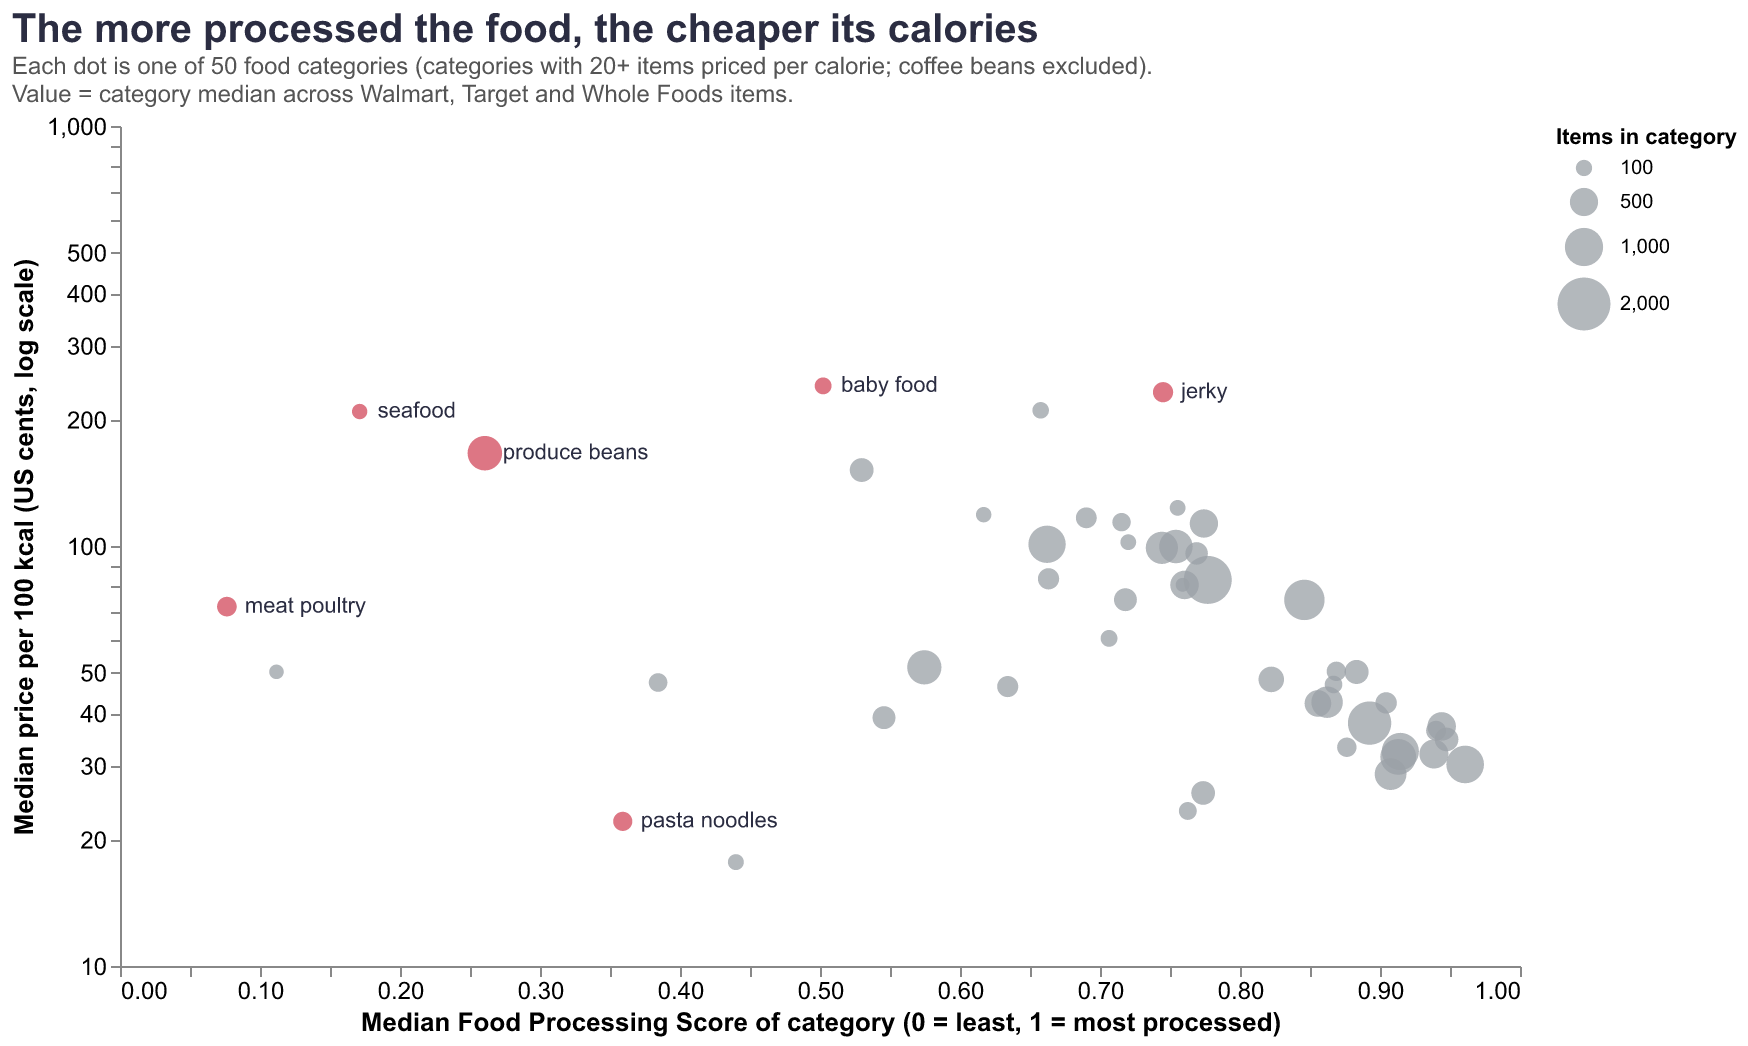
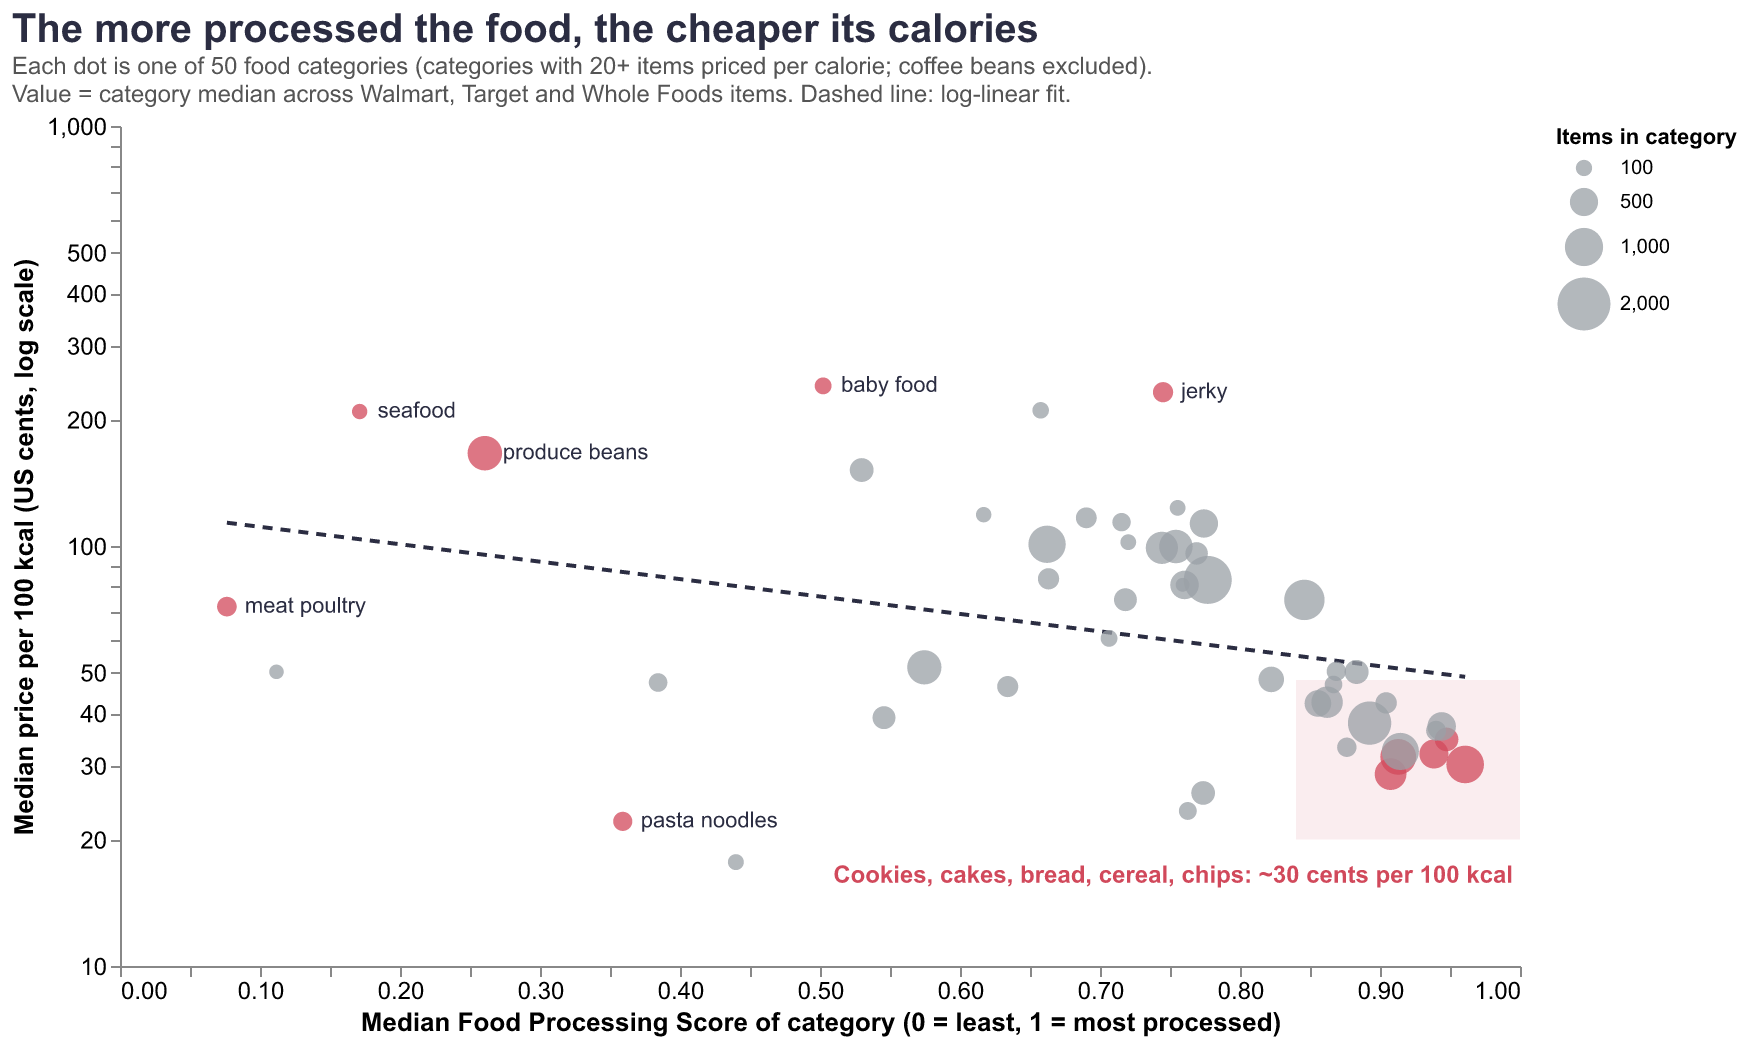
Project 1: add trend line and highlight the cheap processed cluster on plot 1

diff --git a/Project-1/project1/price_plot.py b/Project-1/project1/price_plot.py
@@ -6,6 +6,15 @@ import pandas as pd
 
 from project1.theme import ACCENT, DARK, GREY, apply_theme
 
+# Cheap, heavily processed staples called out together in a shaded box.
+CLUSTER: tuple[str, ...] = (
+    "cookies-biscuit",
+    "cakes",
+    "bread",
+    "snacks-chips",
+    "cereal",
+)
+
 # Categories named on the chart: the extremes plus a few recognizable foods.
 HIGHLIGHT: tuple[str, ...] = (
     "meat-poultry-wf",
@@ -17,16 +26,17 @@ HIGHLIGHT: tuple[str, ...] = (
 )
 
 
-def build_price_plot(summary: pd.DataFrame) -> alt.TopLevelMixin:
+def build_price_plot(summary: pd.DataFrame, trend: pd.DataFrame) -> alt.TopLevelMixin:
     """Build the category-level price-per-calorie scatter plot.
 
     Args:
         summary: Output of :func:`project1.data.category_price_summary`.
+        trend: Fitted line from :func:`project1.data.log_linear_trend`.
 
     Returns:
         A themed Altair chart ready to be saved.
     """
-    summary = summary.assign(highlight=summary["category"].isin(HIGHLIGHT))
+    summary = summary.assign(highlight=summary["category"].isin(HIGHLIGHT + CLUSTER))
 
     points = (
         alt.Chart(summary)
@@ -53,16 +63,49 @@ def build_price_plot(summary: pd.DataFrame) -> alt.TopLevelMixin:
         )
     )
     labels = (
-        alt.Chart(summary[summary["highlight"]])
+        alt.Chart(summary[summary["category"].isin(HIGHLIGHT)])
         .mark_text(align="left", dx=9, fontSize=11, color=DARK)
         .encode(x="fpro:Q", y="cents:Q", text="label:N")
     )
+    trend_line = (
+        alt.Chart(trend)
+        .mark_line(color=DARK, strokeDash=[5, 4])
+        .encode(x="fpro:Q", y="cents:Q")
+    )
+    callout = _cluster_callout()
     title = alt.TitleParams(
         "The more processed the food, the cheaper its calories",
         subtitle=[
             f"Each dot is one of {len(summary)} food categories "
             "(categories with 20+ items priced per calorie; coffee beans excluded).",
-            "Value = category median across Walmart, Target and Whole Foods items.",
+            "Value = category median across Walmart, Target and Whole Foods items. Dashed line: log-linear fit.",
         ],
     )
-    return apply_theme((points + labels).properties(width=700, height=420, title=title))
+    return apply_theme((callout[0] + trend_line + points + labels + callout[1]).properties(width=700, height=420, title=title))
+
+
+def _cluster_callout() -> tuple[alt.Chart, alt.Chart]:
+    """Build the shaded box and caption around the cheap, processed cluster.
+
+    Returns:
+        A ``(box, caption)`` pair; the box is drawn under the dots, the caption on top.
+    """
+    box = (
+        alt.Chart(pd.DataFrame({"x0": [0.84], "x1": [1.0], "y0": [20], "y1": [48]}))
+        .mark_rect(color=ACCENT, opacity=0.10)
+        .encode(x="x0:Q", x2="x1:Q", y="y0:Q", y2="y1:Q")
+    )
+    caption = (
+        alt.Chart(
+            pd.DataFrame(
+                {
+                    "x": [0.995],
+                    "y": [16.5],
+                    "text": ["Cookies, cakes, bread, cereal, chips: ~30 cents per 100 kcal"],
+                }
+            )
+        )
+        .mark_text(align="right", fontSize=12, fontWeight="bold", color=ACCENT)
+        .encode(x="x:Q", y="y:Q", text="text:N")
+    )
+    return box, caption

diff --git a/Project-1/project1/__main__.py b/Project-1/project1/__main__.py
@@ -4,7 +4,7 @@ from __future__ import annotations
 import altair as alt
 
 from project1.config import OUTPUT_DIR, SCALE_FACTOR
-from project1.data import category_price_summary, load_grocerydb
+from project1.data import category_price_summary, load_grocerydb, log_linear_trend
 from project1.price_plot import build_price_plot
 
 
@@ -18,7 +18,10 @@ def save(chart: alt.TopLevelMixin, name: str) -> None:
 def main() -> None:
     """Load the data and render every chart."""
     df = load_grocerydb()
-    save(build_price_plot(category_price_summary(df)), "plot1_price_vs_processing.png")
+    summary = category_price_summary(df)
+    trend, price_ratio = log_linear_trend(summary)
+    print(f"each +0.1 processing score multiplies price per calorie by {price_ratio:.2f}")
+    save(build_price_plot(summary, trend), "plot1_price_vs_processing.png")
 
 
 if __name__ == "__main__":
